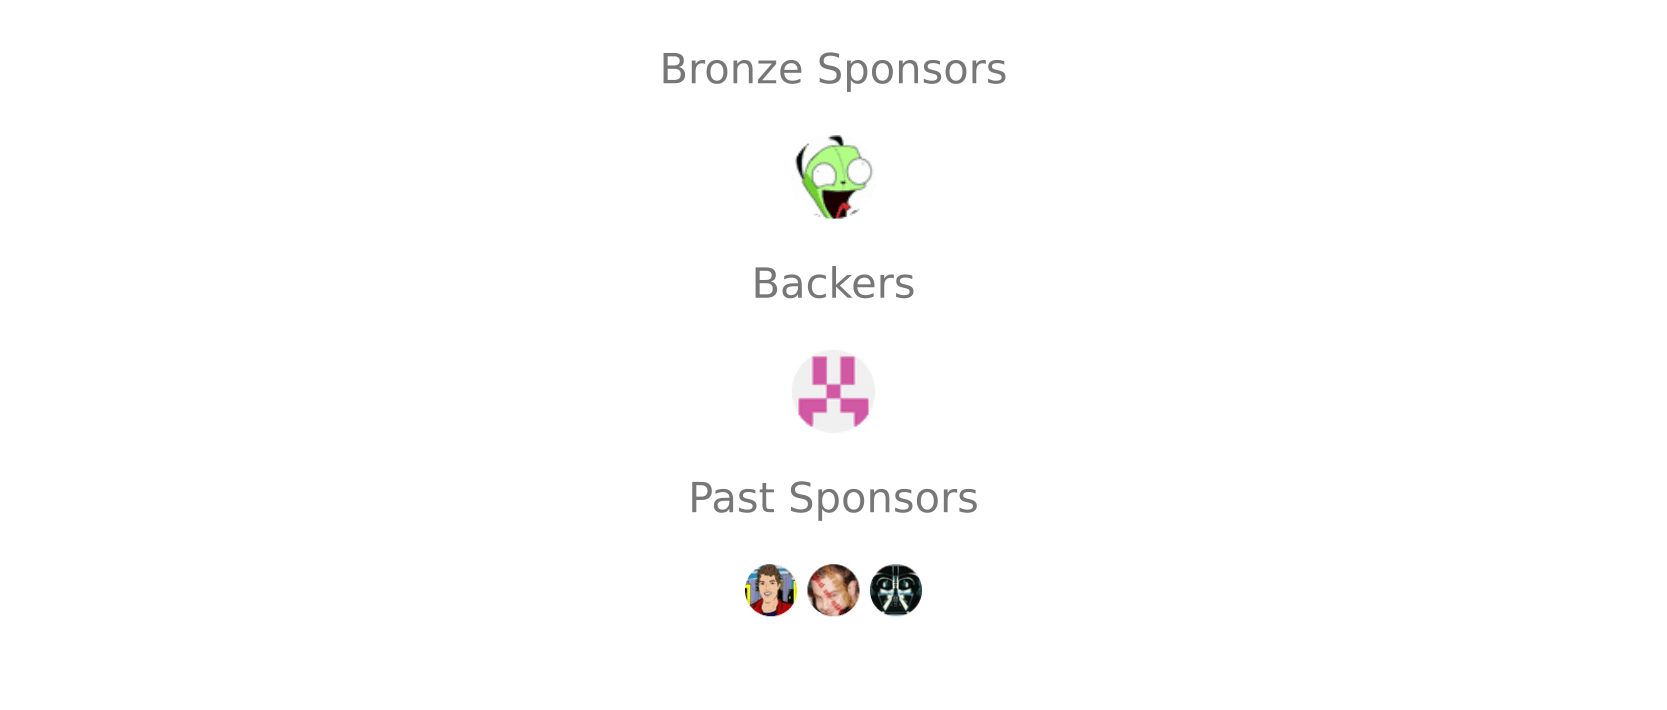
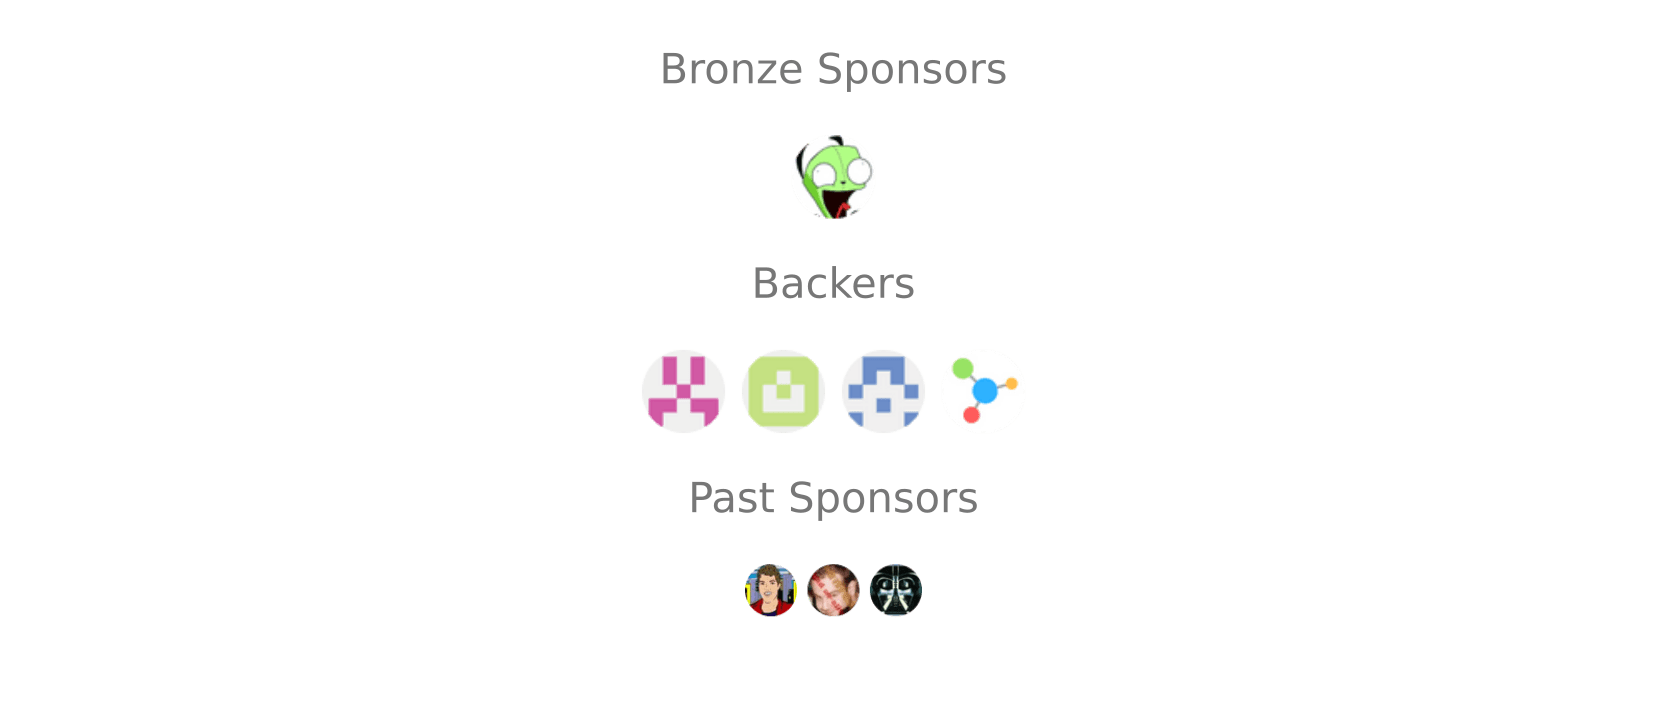
chore: Update sponsors

Changed region(s): [[0.3743, 0.4958, 0.6239, 0.6197]]

diff --git a/sponsorkit.config.js b/sponsorkit.config.js
@@ -12,6 +12,14 @@ export default defineConfig({
   outputDir: './docs/public/sponsorkit',
   includePrivate: true,
   onSponsorsFetched: (sponsors) => {
+    sponsors = sponsors.map(sponsor => {
+      if (sponsor.isOneTime) {
+        sponsor.monthlyDollars = 0
+      }
+
+      return sponsor
+    })
+    console.log(sponsors)
 
     sponsors.push({
         sponsor: {
@@ -27,9 +35,37 @@ export default defineConfig({
         tierName: undefined,
         createdAt: 'Fri, 03 Mar 1999 23:00:00 GMT',
         provider: 'github'
-    })
-
-    console.log(sponsors)
+    },
+      {
+        sponsor: {
+          __typename: undefined,
+          login: 'jhercog',
+          name: 'jhercog',
+          avatarUrl: 'https://avatars.githubusercontent.com/u/181355?v=4',
+          type: 'User'
+        },
+        isOneTime: true,
+        monthlyDollars: 0,
+        privacyLevel: 'PUBLIC',
+        tierName: undefined,
+        createdAt: 'Fri, 03 Mar 2023 23:00:00 GMT',
+        provider: 'github'
+      },
+      {
+        sponsor: {
+          __typename: undefined,
+          login: 'svenhue',
+          name: 'Sven Hue',
+          avatarUrl: 'https://avatars.githubusercontent.com/u/83905274?v=4',
+          type: 'User'
+        },
+        isOneTime: true,
+        monthlyDollars: 0,
+        privacyLevel: 'PUBLIC',
+        tierName: undefined,
+        createdAt: 'Fri, 03 Mar 1999 23:00:00 GMT',
+        provider: 'github'
+      })
 
     return sponsors
   },
